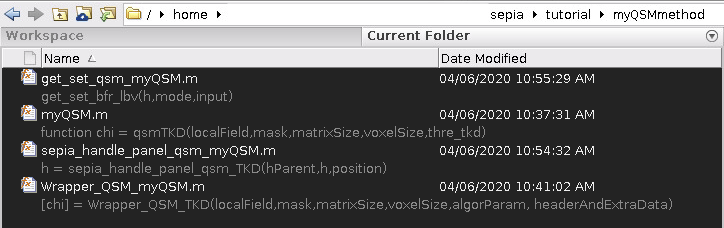
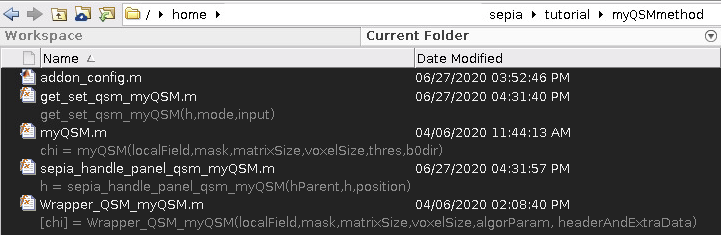
update

Changed region(s): [[0.0, 0.0, 1.0, 1.0]]

diff --git a/tutorial/integration_new_method/part_1/index.rst b/tutorial/integration_new_method/part_1/index.rst
@@ -1,7 +1,7 @@
 .. _integration_method_part1-index:
 
-Integration of New BFR/QSM Method in SEPIA: Part 1
-=======================================================================
+Integration of New Phase unwrapping/BFR/QSM Method in SEPIA: Part 1
+===================================================================
 
 Objectives
 ----------
@@ -23,25 +23,27 @@ About 30 minutes
 Introduction  
 ------------
 
-In this tutorial, we will practice how to integrate a new method to the SEPIA processing back end. The new method can be used in backgorund field removal/QSM processing step. It is also possible to add a new phase unwrapping method, yet minor adaptation of this tutorial might be needed. 
+In this tutorial, we will practice how to integrate a new method to the SEPIA processing backend. The new method can be used in phase unwrapping/backgorund field removal/QSM dipole inversion step.
 
-.. note:: If you are interested to have your method also shown in the SEPIA front end GUI, please visit Part 2 of the tutorial. 
+.. note:: This tutorial only demonstrates the way of adding new methods to the processing backend. To be able to have your method also shown in the SEPIA frontend GUI, please visit Part 2 of the tutorial. 
 
 
 Exercise
 --------
 
-To begin with, let's go to the ``/SEPIA_HOME/tutorial/myQSMmethod/``. You should see there are four Matlab scripts in the folder:
+To begin with, let's go to the tutorial directory ``$SEPIA_HOME/tutorial/``. There is a folder called *myQSMmethod*. You should be able to see there are four Matlab scripts in the folder:
 
 .. figure:: images/figure01_files.png
    :align: center
    
-We will need ``myQSM.m`` and ``Wrapper_QSM_myQSM.m`` these two files in this tutorial. 
+We will need ``myQSM.m``, ``Wrapper_QSM_myQSM.m`` and ``addon_config.m`` these three files in this tutorial.
+
+We are going to explain these files in detail.
 
 myQSM.m
 ^^^^^^^
 
-Let's have a look on the ``myQSM.m``
+Let's have a look at ``myQSM.m``
 
 .. figure:: images/figure02_myQSM.png
    :align: center
@@ -62,10 +64,12 @@ Let's have a look on the ``myQSM.m``
 
 The function returns one output variable which is the magnetic susceptibility map, *chi*, and has the same unit as the local field map input.
 
+.. note:: This function is equivalent to your own QSM function to perform dipole field inversion.
+
 Wrapper_QSM_myQSM.m
 ^^^^^^^^^^^^^^^^^^^
 
-``Wrapper_QSM_myQSM.m`` is a wrapper function to connect ``myQSM.m`` to the SEPIA framework. We will go through the function step by step to see more details:
+``Wrapper_QSM_myQSM.m`` is a wrapper function to connect ``myQSM.m`` to the SEPIA framework. It belongs to the comminication level of SEPIA. We will go through the function step by step to understand how it works:
 
 .. figure:: images/figure03_WrapperQSMmyQSM.png
    :align: center
@@ -132,32 +136,61 @@ You can also provide some feedback to user by displaying the algorithm parameter
 
 Once all input are ready, you can call your method to compute the susceptibility map (or local field map, depended on the objective of the method). Feel free to adapt the data for the needs of the method. The only requirement is to return the susceptibility map, *chi*, with unit of ppm.
 
-With these two files, the method is almost ready for SEPIA. Before we can use this method in SEPIA, we need to update the method configuration file of SEPIA. To do that, go to the SEPIA configuration directory: ``/SEPIA_HOME/configuration/``
+With these two files, the method is almost ready for SEPIA. Before we can use this method in SEPIA, we need to tell SEPIA there is a new method available. To do so, we need the ``addon_config.m`` file.
 
-.. figure:: images/figure04_configurationFolder.png
+addon_config.m
+^^^^^^^^^^^^^^
+
+A new method in SEPIA can only be detected when the ``addon_config.m`` file is available together with the method itself. It provides crucial information such as script names and method name for SEPIA to support its functionality.
+
+.. figure:: images/figure04_addon_config.png
    :align: center
 
-You can see there are three configuration files in the directory, each of them specifies the methods available for each task in SEPIA. Now open the ``sepia_configuration_QSM.m`` in the editor. You will see the script is divided into 4 sections. We only focus the first two in this tutorial. 
-
-.. figure:: images/figure05_config_QSM.png
-   :align: center
-
-In the first section, the variable *methodQSMName* contains the names of QSM methods available in SEPIA and we need to add ``myQSM`` to this variable. This name will be used thorough the SEPIA framework. **DO NOT** change the order of the method! Insert our method to the end of the variable instead, as follow:
-
-.. figure:: images/figure06_methodQSMName.png
-   :align: center
-
-In the second section, the variable *wrapper_QSM_function* contains the filenames of the wrapper functions and we also need to add ours to the end of this vaiable as follow:
-
-.. figure:: images/figure07_wrapperQSM.png
-   :align: center
-
-.. warning::
-   The order of the newly added method has to be the same in these two variables (*methodQSMName* & *wrapper_QSM_function*), i.e. if ``methodQSMName{9}='myQSM'`` then ``wrapper_QSM_function{9}='Wrapper_QSM_myQSM'``.
-
-Now, the method is available in SEPIA! You can use the method in command based operation such as ``SEPIAIOWrapper.m`` and ``QSMIOWrapper.m``, e.g. :
+**Anatomy of addon_config.m**
 
 .. code-block:: matlab
 
-   algorParam.qsm.method      = 'myQSM';
-   algorParam.qsm.threshold   = 0.1; 
+   % This name will be used thorough the SEPIA framework
+   addons.method = 'myQSM';
+
+You need to specify the name of your method (i.e. 'myQSM' here). This name will be used thorough SEPIA.
+
+.. note:: Space is allowed in the name.
+
+.. code-block:: matlab
+
+   % Specify the filename of the wrapper function (without extension)
+   addons.wrapper_function	= 'Wrapper_QSM_myQSM';
+
+Here we need to tell SEPIA what's the filename of myQSM wrapper function file.
+
+These two variables will allow SEPIA to access myQSM in the processing backend. We will explain the remaining two in the next tutorial.
+
+Now everything is ready! SEPIA only detects new methods available in the *addons* direction, i.e. ``$SEPIA_HOME/addons/``. There are three sub-directories: 'phase_unwrap', 'bfr', and 'qsm'. New method for a specific task must be added to the corresponding sub-directory. Therefore, we need to copy and past the whole folder (i.e. ``$SEPIA_HOME/tutorial/myQSMmethod/``) to the QSM addons directory ``$SEPIA_HOME/addons/qsm/``
+
+.. figure:: images/figure05_move_directory.png
+   :align: center
+
+The method is now available in SEPIA! However, the method is only available in the processing backend. You can use the method only in command-based operation such as ``SEPIAIOWrapper.m`` and ``QSMIOWrapper.m``, e.g. :
+
+.. code-block:: matlab
+
+   sepia_addpath
+
+   % Input/Output filenames
+   input(1).name = '/input_dir/Sepia_local-field.nii.gz' ;
+   input(2).name = '' ;
+   input(3).name = '' ;
+   input(4).name = '/input_dir/sepia_header.mat' ;
+   output_basename = '/input_dir/output/Sepia' ;
+   mask_filename = ['/input_dir/Sepia_mask-qsm.nii.gz'] ;
+
+   % General algorithm parameters
+   algorParam.general.isBET       = 0 ;
+   algorParam.general.isInvert    = 0 ;
+   % QSM algorithm parameters
+   algorParam.qsm.reference_tissue = 'None' ;
+   algorParam.qsm.method = 'myQSM' ;
+   algorParam.qsm.threshold = 0.15 ;
+
+   QSMMacroIOWrapper(input,output_basename,mask_filename,algorParam);

diff --git a/method/bfr/LBV.rst b/method/bfr/LBV.rst
@@ -6,7 +6,76 @@
 Laplacian Boundary Value approach (LBV)
 =======================================
 
-Reference:
+.. image:: ../images/bfr/LBV.png
+
+Reference
+---------
+
 `Zhou, D., Liu, T., Spincemaille, P., Wang, Y., 2014. Background field removal by solving the Laplacian boundary value problem. NMR in biomedicine 27, 312–319. <https://doi.org/10.1002/nbm.3064>`_ 
 
-.. image:: ../images/bfr/LBV.png
+Algorithm parameters overview
+-----------------------------
+
++---------------------------+--------------------------------------------------------------------------------------------------------------+
+| algorParam.bfr.           | Description                                                                                                  |
++===========================+==============================================================================================================+
+| tol                       | Iteration stopping criteria on the coarest grid                                                              |
++---------------------------+--------------------------------------------------------------------------------------------------------------+
+| depth                     | No. of length scales                                                                                         |
++---------------------------+--------------------------------------------------------------------------------------------------------------+ 
+| peel                      | No. of boundary layers to be peeled off                                                                      |
++---------------------------+--------------------------------------------------------------------------------------------------------------+ 
+
+Usage
+-----
+
+algorParam.bfr.tol
+^^^^^^^^^^^^^^^^^^
+
+Iteration stopping criteria on the coarest grid 
+
+**Default Value: 0.0001**
+
+Examples:
+
+``algorParam.bfr.tol = 1;``
+
+``algorParam.bfr.tol = 0.01;``
+
+``algorParam.bfr.tol = 0.0001;``
+
+.. image:: images/lbv_tol_result.png
+
+algorParam.bfr.depth
+^^^^^^^^^^^^^^^^^^^^
+
+No. of length scales 
+
+**Default Value: 5**
+
+Examples:
+
+``algorParam.bfr.depth = -1;``
+
+``algorParam.bfr.depth = 2;``
+
+``algorParam.bfr.depth = 5;``
+
+.. image:: images/lbv_depth_result.png
+
+algorParam.bfr.peel
+^^^^^^^^^^^^^^^^^^^^
+
+No. of boundary layers to be peeled off
+
+**Default Value: 2**
+
+Examples:
+
+``algorParam.bfr.peel = 1;``
+
+``algorParam.bfr.peel = 2;``
+
+``algorParam.bfr.peel = 4;``
+
+.. image:: images/lbv_peel_result.png

diff --git a/tutorial/integration_new_method/part_2/index.rst b/tutorial/integration_new_method/part_2/index.rst
@@ -1,7 +1,7 @@
 .. _integration_method_part2-index:
 
-Integration of New BFR/QSM Method in SEPIA: Part 2
-=======================================================================
+Integration of New Phase unwrapping/BFR/QSM Method in SEPIA: Part 2
+===================================================================
 
 Objectives
 ----------
